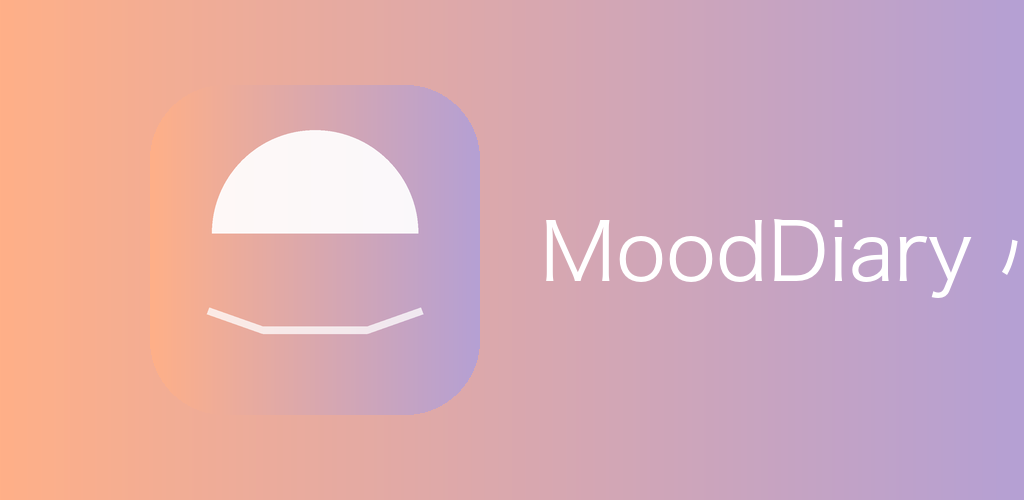
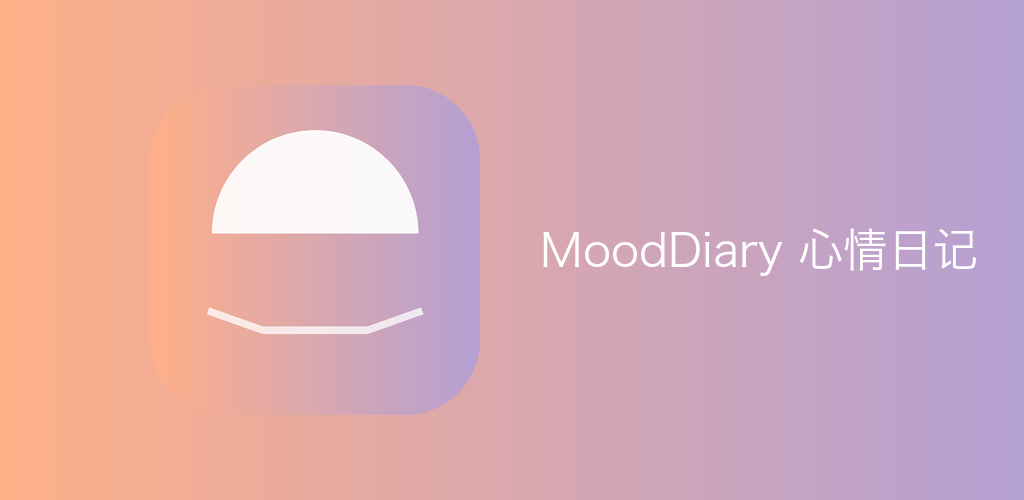
R128e+ round 3 fix: Play feature graphic zh-CN overflow
Per-locale font sizes: en-US 80pt (fits 390px in 484px space),
zh-CN 45pt (fits 438px with 46px margin). Reviewer's 49pt claim
re-checked: zh-CN at 49pt = 477px still overflows by 23px.

Verified: textbbox width, no white pixels in right-edge strip
(x=1004..1023) on both PNGs.

Changed region(s): [[0.5312, 0.42, 1.0, 0.6]]

diff --git a/scripts/generate_feature_graphic.py b/scripts/generate_feature_graphic.py
@@ -26,7 +26,8 @@ def gradient_bg() -> Image.Image:
     return grad.resize((W, H))
 
 
-def make_graphic(title: str, font_path: str, master_icon_path: str) -> Image.Image:
+def make_graphic(title: str, font_path: str, font_size: int,
+                 master_icon_path: str) -> Image.Image:
     bg = gradient_bg()
     # Load master icon, place left
     icon = Image.open(master_icon_path).convert('RGB')
@@ -35,9 +36,9 @@ def make_graphic(title: str, font_path: str, master_icon_path: str) -> Image.Ima
     ImageDraw.Draw(mask).rounded_rectangle([0, 0, 329, 329], radius=74, fill=255)
     icon.putalpha(mask)
     bg.paste(icon, (150, (H - 330) // 2), icon)
-    # Title text right
+    # Title text right (per-locale font size: en-US 80pt fits 390px, zh-CN 45pt fits 438px)
     d = ImageDraw.Draw(bg)
-    font = ImageFont.truetype(font_path, 80)
+    font = ImageFont.truetype(font_path, font_size)
     d.text((540, H // 2), title, font=font, fill=WHITE, anchor='lm')
     return bg
 
@@ -45,16 +46,16 @@ def make_graphic(title: str, font_path: str, master_icon_path: str) -> Image.Ima
 def main() -> None:
     master = os.path.join(ROOT, 'assets/brand/app_icon_master.png')
     configs = [
-        ('en-US', 'MoodDiary', '/System/Library/Fonts/Helvetica.ttc',
+        ('en-US', 'MoodDiary', 80, '/System/Library/Fonts/Helvetica.ttc',
          'fastlane/metadata/android/en-US/feature_graphic.png'),
-        ('zh-CN', 'MoodDiary 心情日记', '/System/Library/Fonts/Hiragino Sans GB.ttc',
+        ('zh-CN', 'MoodDiary 心情日记', 45, '/System/Library/Fonts/Hiragino Sans GB.ttc',
          'fastlane/metadata/android/zh-CN/feature_graphic.png'),
     ]
-    for locale, title, font_path, rel_path in configs:
+    for locale, title, font_size, font_path, rel_path in configs:
         if not os.path.exists(font_path):
             print(f'  skip {locale}: font missing {font_path}')
             continue
-        img = make_graphic(title, font_path, master)
+        img = make_graphic(title, font_path, font_size, master)
         out = os.path.join(ROOT, rel_path)
         img.save(out)
         print(f'  {locale}/feature_graphic.png ({W}x{H})')
